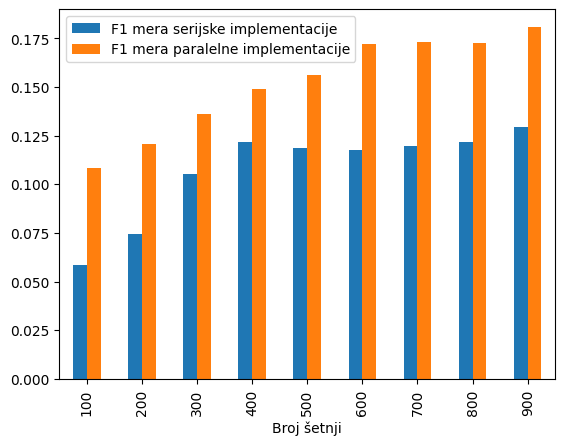
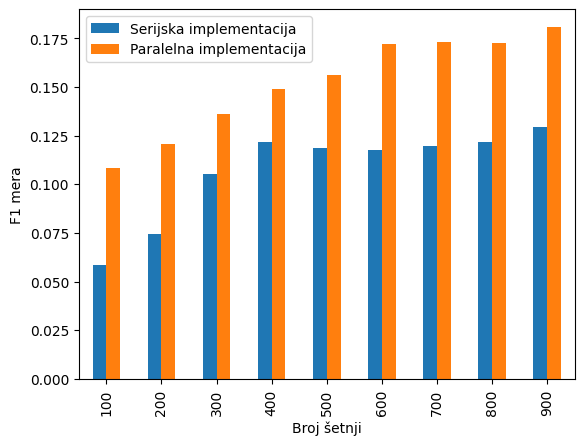
Update CSV files and add JSON configuration files for presentation

diff --git a/presentation/presentation.tex b/presentation/presentation.tex
@@ -31,7 +31,7 @@ Mentor: \MakeLowercase{dr} Miloš Savić
 \titlepage
 }
 
-\section{Uvod i Motivacija}
+\section{Uvod i motivacija}
 \begin{frame}{Uvod}
     \includegraphics[width=\textwidth]{png/uvod.png}
     % add footnote
@@ -41,8 +41,8 @@ Mentor: \MakeLowercase{dr} Miloš Savić
 \end{frame}
 
 \begin{frame}
-	\frametitle{Ugrađivanje čvorova}
-	Neka je $ G = (V, E) $ graf, tada je ugrađivanje funkcija 
+	\frametitle{Ugrađivanje (embedovanje) čvorova}
+	Neka je $ G = (V, E) $ graf, tada je ugrađivanje (embedovanje) funkcija 
 
 	$$ U : V \to \mathbb{R}^n $$ 
 
@@ -51,7 +51,7 @@ Mentor: \MakeLowercase{dr} Miloš Savić
 
 \end{frame}
 
-\begin{frame}{node2vec}
+\begin{frame}{node2vec algoritam}
 	\centering
     \begin{tikzpicture}[node distance=2cm]
 
@@ -65,7 +65,7 @@ Mentor: \MakeLowercase{dr} Miloš Savić
     \end{tikzpicture}
 \end{frame}
 
-\begin{frame}{3 pitanja u radu}
+\begin{frame}{Cilj istraživanja}
     \centering 
 	\begin{tikzpicture}[node distance=2cm]
 		\node (q1) [block, text width=8cm, align=center] {Koliko paralelni algoritam ubrzava ceo proces?};
@@ -87,7 +87,7 @@ Mentor: \MakeLowercase{dr} Miloš Savić
 \end{frame}
 
 \section{Particionisanje}
-\begin{frame}{LFM Algoritam}
+\begin{frame}{Detekcija preklapajućih zajednica}
     \begin{itemize}
         \item Algoritam za detekciju preklapajućih zajednica 
         \item Za svaki čvor koji nije dodeljen zajednici, dodeljuje se nova zajednica 
@@ -97,14 +97,14 @@ Mentor: \MakeLowercase{dr} Miloš Savić
     \end{itemize}
 \end{frame}
 
-\begin{frame}{Modifikacija Algoritma}
+\begin{frame}{Detekcija preklapajućih zajednica - modifikacija algoritma}
     \begin{itemize}
         \item Zbog povećanja brzine, algoritam se modifikuje tako da ne traje sve dok postoje čvorovi koji nisu dodeljeni zajednici
         \item Umesto toga, algoritam se izvršava dok određeni broj čvorova nije dodeljen zajednici
     \end{itemize}
 \end{frame}
 
-\begin{frame}{Bin Packing}
+\begin{frame}{Particionisanje po čvorovima u klasteru}
     \begin{itemize}
         \item Nakon detekcije zajednica, potrebno je raspodeliti zajednice po čvorovima u klasteru
         \item U ovom radu, koristi se bin packing algoritam
@@ -116,7 +116,7 @@ Mentor: \MakeLowercase{dr} Miloš Savić
 \end{frame}
 
 \begin{frame}
-    \frametitle{Bin packing}
+    \frametitle{Particionisanje po čvorovima u klasteru}
     \begin{itemize}
         \item Algoritam dodeljuje particije zajednicama, počevši od najveće zajednice. Uvek se dodeljuje particija koja je najmanje opterećena
         \item Ukoliko ne postoji particija koja ima potreban kapacitet, kapacitet particija se povećava za prosečnu veličinu zajednice koja još nije dodeljena particiji. 
@@ -127,18 +127,22 @@ Mentor: \MakeLowercase{dr} Miloš Savić
 
 \section{Gubici strukturnih informacija}
 \begin{frame}{Mera gubitka strukturnih informacija}
-    \includegraphics[width=\textwidth]{dot/graf.png}
+    \begin{columns}
+		\begin{column}{0.5\textwidth}
+            \includegraphics[width=\textwidth]{dot/graf.png}
+		\end{column}
+		\begin{column}{0.5\textwidth}
+            Neka je $ E_p $ skup svih grana koje sadrže čvorove takve da su oba čvora u particiji $ p $  i neka je $ P $ skup svih particija za graf $ G = (V, E) $
+            
+            Tada je mera gubitka strukturnih informacija $ L $ definisana kao
+            
+            $$ L = \frac{\sum_{p \in P} |E_p|}{|E|} $$
+            
+            , gde je $ |E_p| $ broj grana koje sadrže čvorove iz particije $ p $, a $ |E| $ ukupan broj grana u grafu $ G $.
+		\end{column}
+	\end{columns}
 \end{frame}
 
-\begin{frame}{Mera gubitka strukturnih informacija}
-    Neka je $ E_p $ skup svih grana koje sadrže čvorove takve da su oba čvora u particiji $ p $  i neka je $ P $ skup svih particija za graf $ G = (V, E) $
-
-    Tada je mera gubitka strukturnih informacija $ L $ definisana kao
-
-    $$ L = \frac{\sum_{p \in P} |E_p|}{|E|} $$
-
-    Gde je $ |E_p| $ broj grana koje sadrže čvorove iz particije $ p $, a $ |E| $ ukupan broj grana u grafu $ G $
-\end{frame}
 
 \section{Rekonstrukcija}
 \begin{frame}{Rekonstrukcija}
@@ -148,8 +152,8 @@ Mentor: \MakeLowercase{dr} Miloš Savić
 \end{frame}
 
 
-\section{ARI}
-\begin{frame}{Adjusted Rand Index (ARI)}
+\section{Prilagođeni Randov indeks}
+\begin{frame}{Prilagođeni Randov indeks}
     \begin{itemize}
         \item Meri sličnost između dva klasterovanja
         \item Vrednost je bliska 0 za slučajno klasterovanje, a 1 za identična klasterovanja
@@ -161,6 +165,12 @@ Mentor: \MakeLowercase{dr} Miloš Savić
 \begin{frame}{Skupovi podataka}
     \begin{itemize}
         \item Poznati grafovi iz literature 
+        \begin{itemize}
+            \item Zaharijev karate klub
+            \item Les Miserables
+            \item Davis southern women
+            \item Florentine families
+        \end{itemize}
         \item Twitch mreža
         \item Sintetički grafovi 
     \end{itemize}
@@ -180,7 +190,7 @@ Mentor: \MakeLowercase{dr} Miloš Savić
 \end{frame}
 
 \section{Rezultati}
-\begin{frame}{Vreme particionisanja za neke popularne mreže}
+\begin{frame}{Vreme particionisanja za realne mreže iz literature i Twitch}
     \centering
     \begin{table}
         \label{tab:4.2}
@@ -276,8 +286,12 @@ Mentor: \MakeLowercase{dr} Miloš Savić
 \section{Zaključak}
 \begin{frame}{Zaključak}
     \begin{itemize}
-        \item Rezultati su pokazali da je paralelna implementacija algoritma brža od serijske, nakon određenog broja šetnji, dok zadržava kvalitet rekonstrukcije grafa
-        \item Rezultati su pokazali da je klasterovanje dobijeno paralelnim ugrađivanjem slično klasterovanju dobijenom serijskim ugrađivanjem
+        \item Pokazano je da:
+        \begin{itemize}
+            \item Paralelna implementacija algoritma brža od serijske, nakon određenog broja šetnji, dok zadržava kvalitet rekonstrukcije grafa
+            \item Klasterovanje dobijeno paralelnim ugrađivanjem slično klasterovanju dobijenom serijskim ugrađivanjem
+        \end{itemize}
+        \item \textbf{Predloženi metod se može koristiti da ubrza ugrađivanje čvorova ili da, uz dodatno vreme particionisanja, uveća tačnost zbog većeg broja mogućih slučajnih šetnji}
         \item Unapređenja:
         \begin{itemize}
             \item Upotreba specifične baze podataka koja bi indeksirala čvorove tako da particionisanje bude brže
@@ -290,9 +304,8 @@ Mentor: \MakeLowercase{dr} Miloš Savić
 
 
 \begin{frame}
-	\frametitle{Pitanja}
 	\begin{center}
-		\huge{?}
+		\Huge Hvala na pažnji!
 	\end{center}
 \end{frame}
 

diff --git a/presentation/csv/generate.py b/presentation/csv/generate.py
@@ -3,6 +3,7 @@ import pandas as pd
 import os 
 import sys 
 import matplotlib.pyplot as plt 
+import json 
 
 path = sys.argv[1]
 
@@ -17,4 +18,9 @@ for file in os.listdir(path):
         else:
             df = df.set_index(df.columns[0])
             df.plot.bar()
+            if os.path.exists(os.path.join(path, f"{basename}.json")):
+                with open(os.path.join(path, f"{basename}.json"), 'r') as f:
+                    data = json.load(f)
+                    for param, value in data.items():
+                        getattr(plt, param)(value)
             plt.savefig(os.path.join(path, f"{basename}.png"), bbox_inches='tight')
